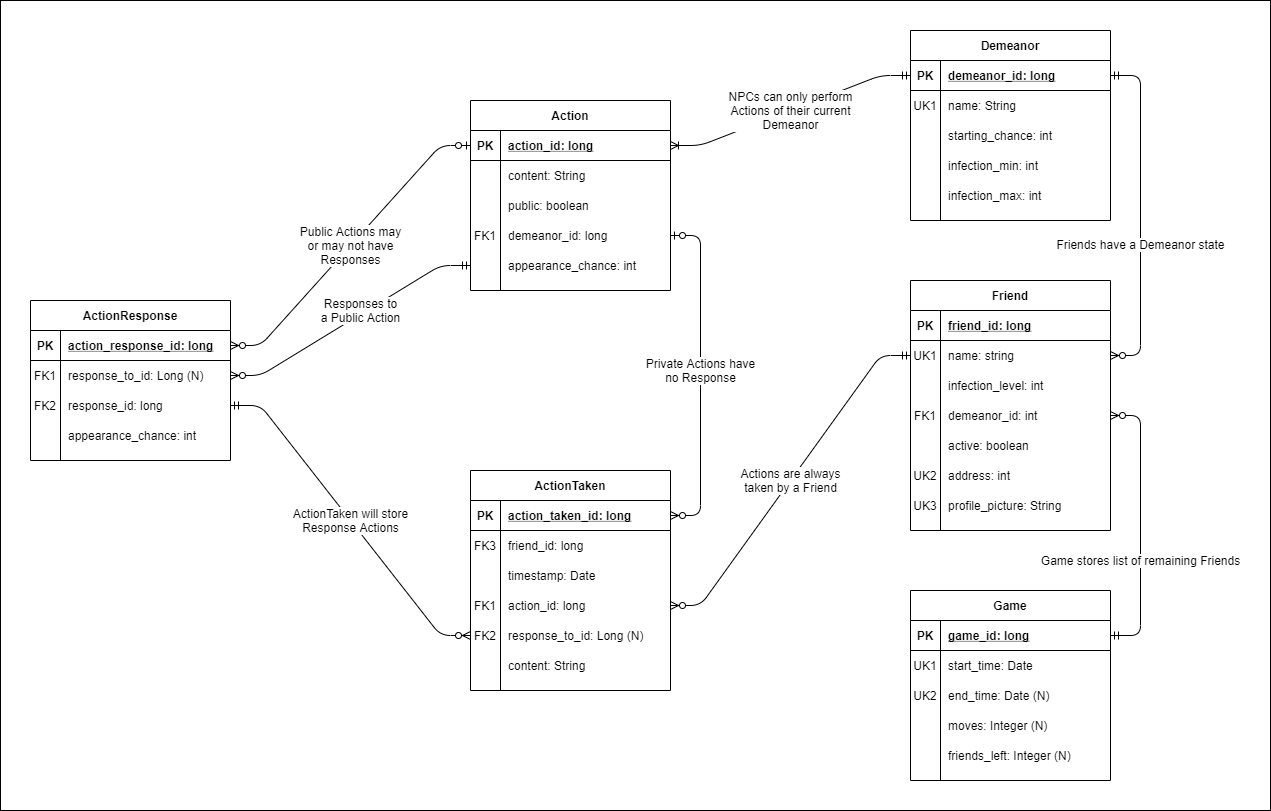
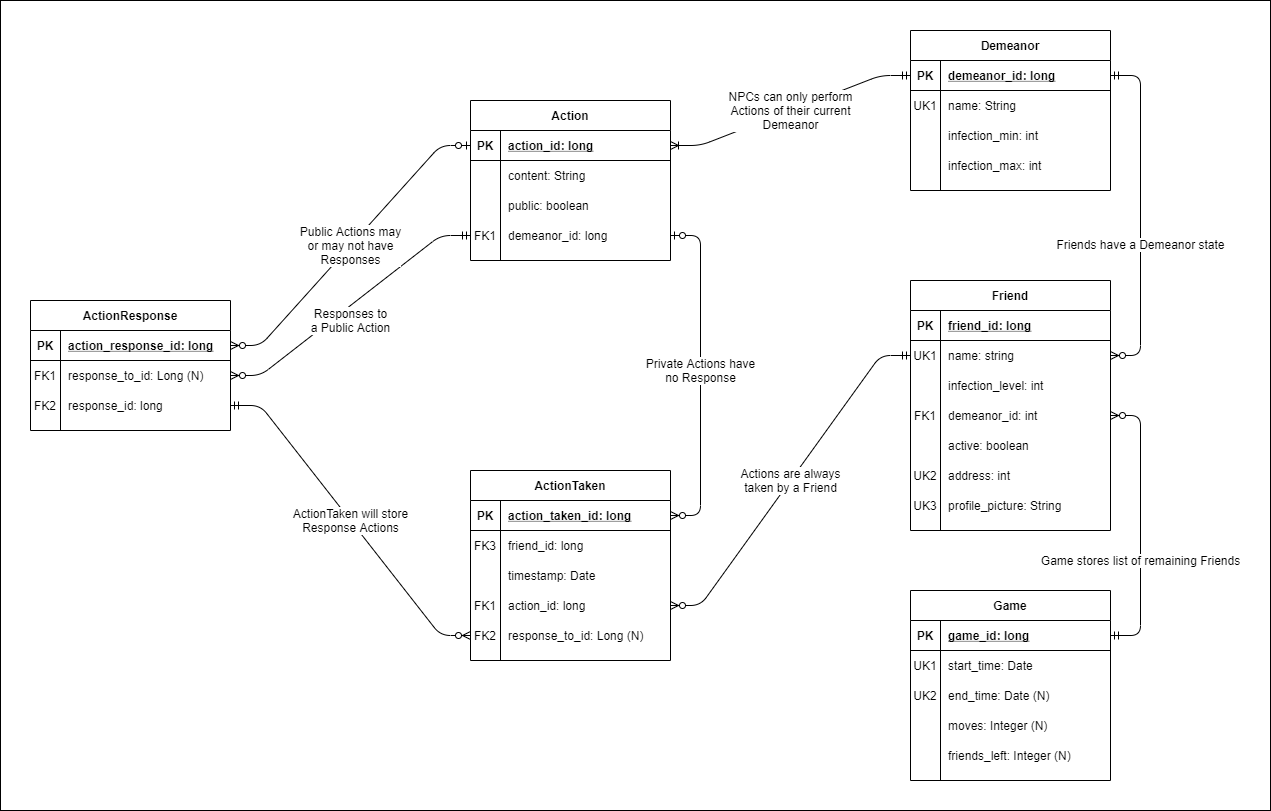
Updated ERD.

diff --git a/app/src/main/java/edu/cnm/deepdive/viral/model/entity/ActionTaken.java b/app/src/main/java/edu/cnm/deepdive/viral/model/entity/ActionTaken.java
@@ -52,9 +52,6 @@ public class ActionTaken {
   @ColumnInfo(name = "response_to_id")
   private Long responseTo;
 
-  @NonNull
-  private String content; // Do I even need this if it can just reference the content of the action?
-
   public long getId() {
     return id;
   }
@@ -94,15 +91,6 @@ public class ActionTaken {
 
   public void setResponseTo(Long responseTo) {
     this.responseTo = responseTo;
-  }
-
-  @NonNull
-  public String getContent() {
-    return content;
-  }
-
-  public void setContent(@NonNull String content) {
-    this.content = content;
   }
 
 }

diff --git a/app/src/main/java/edu/cnm/deepdive/viral/model/entity/ActionResponse.java b/app/src/main/java/edu/cnm/deepdive/viral/model/entity/ActionResponse.java
@@ -39,9 +39,6 @@ public class ActionResponse {
   @ColumnInfo(name = "response_id")
   private long response;
 
-  @ColumnInfo(name = "appearance_chance")
-  private int appearanceChance;
-
   public long getId() {
     return id;
   }
@@ -65,14 +62,6 @@ public class ActionResponse {
 
   public void setResponse(long response) {
     this.response = response;
-  }
-
-  public int getAppearanceChance() {
-    return appearanceChance;
-  }
-
-  public void setAppearanceChance(int appearanceChance) {
-    this.appearanceChance = appearanceChance;
   }
 
 }

diff --git a/app/src/main/java/edu/cnm/deepdive/viral/model/entity/Demeanor.java b/app/src/main/java/edu/cnm/deepdive/viral/model/entity/Demeanor.java
@@ -17,9 +17,6 @@ public class Demeanor {
   @NonNull
   private String name;
 
-  @ColumnInfo(name = "starting_chance")
-  private int startingChance;
-
   @ColumnInfo(name = "infection_min")
   private int infectionMin;
 
@@ -40,14 +37,6 @@ public class Demeanor {
 
   public void setName(String name) {
     this.name = name;
-  }
-
-  public int getStartingChance() {
-    return startingChance;
-  }
-
-  public void setStartingChance(int startingChance) {
-    this.startingChance = startingChance;
   }
 
   public int getInfectionMin() {

diff --git a/app/src/main/java/edu/cnm/deepdive/viral/model/entity/Action.java b/app/src/main/java/edu/cnm/deepdive/viral/model/entity/Action.java
@@ -31,9 +31,6 @@ public class Action {
   @ColumnInfo(name = "demeanor_id")
   private long demeanor;
 
-  @ColumnInfo(name = "appearance_chance")
-  private int appearanceChance;
-
   public long getId() {
     return id;
   }
@@ -64,14 +61,6 @@ public class Action {
 
   public void setDemeanor(long demeanor) {
     this.demeanor = demeanor;
-  }
-
-  public int getAppearanceChance() {
-    return appearanceChance;
-  }
-
-  public void setAppearanceChance(int appearanceChance) {
-    this.appearanceChance = appearanceChance;
   }
 
 }

diff --git a/app/src/main/java/edu/cnm/deepdive/viral/model/dao/ActionResponseDao.java b/app/src/main/java/edu/cnm/deepdive/viral/model/dao/ActionResponseDao.java
@@ -18,8 +18,7 @@ public interface ActionResponseDao {
       "SELECT * "
       + "FROM ActionResponse AS ar "
       + "INNER JOIN `Action` AS ac ON ar.response_to_id = ac.action_id "
-      + "WHERE ac.action_id = :action AND ac.demeanor_id = :demeanor "
-      + "ORDER BY appearance_chance ASC";
+      + "WHERE ac.action_id = :action AND ac.demeanor_id = :demeanor";
 
   @Insert
   Single<Long> insert(ActionResponse actionResponse);

diff --git a/app/src/main/java/edu/cnm/deepdive/viral/model/dao/ActionDao.java b/app/src/main/java/edu/cnm/deepdive/viral/model/dao/ActionDao.java
@@ -19,8 +19,7 @@ public interface ActionDao {
   String SELECT_ACTION_BY_VISIBILITY_QUERY =
       "SELECT * "
           + "FROM `Action` "
-          + "WHERE public = :isPublic AND demeanor_id = :demeanor "
-          + "ORDER BY appearance_chance DESC";
+          + "WHERE public = :isPublic AND demeanor_id = :demeanor";
 
   @Insert
   Single<Long> insert(Action action);
